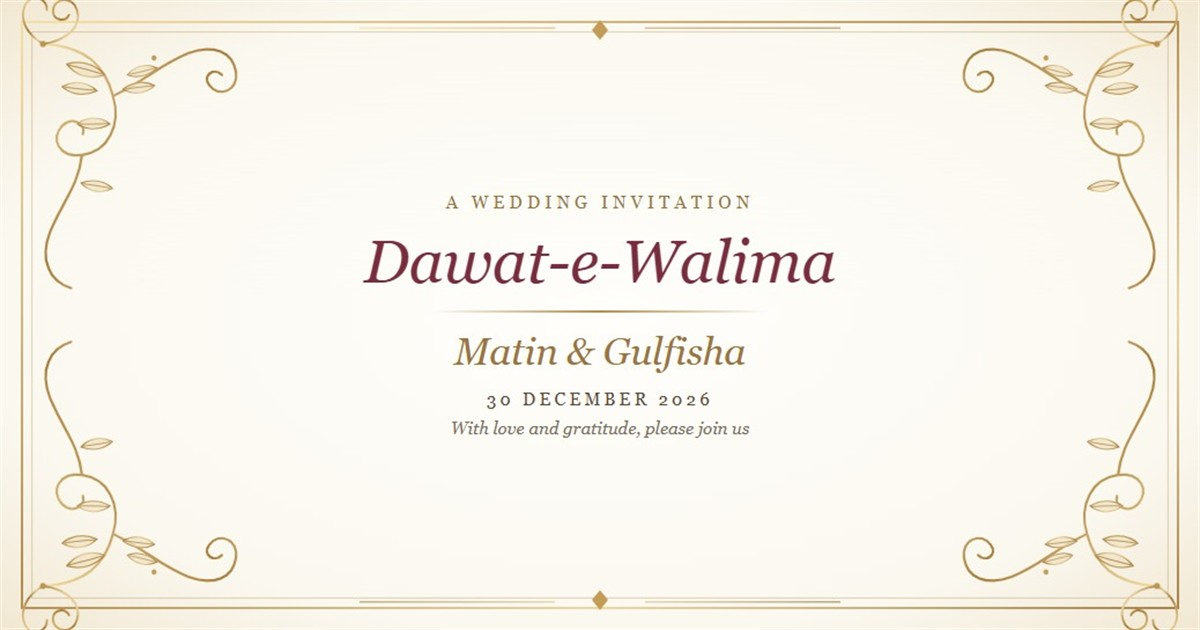
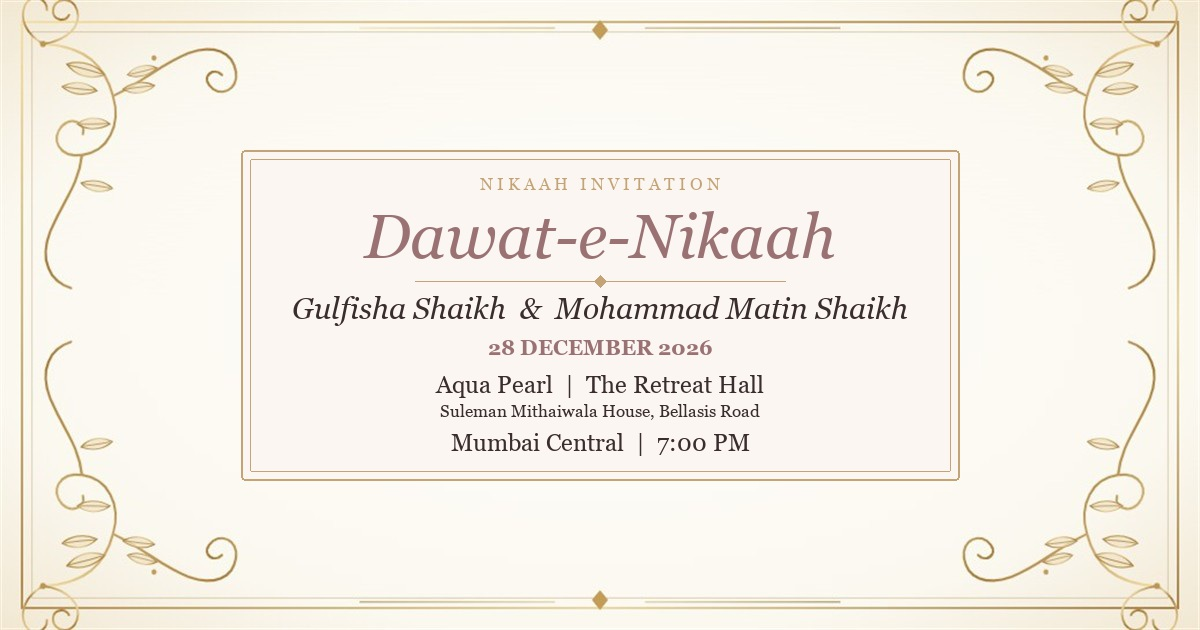
Add Nikaah social sharing preview

diff --git a/index.html b/index.html
@@ -9,14 +9,20 @@
   <title>Dawat-e-Nikaah | Matin &amp; Gulfisha</title>
   <meta
     name="description"
-    content="An invitation to celebrate the Nikaah of Matin and Gulfisha."
+    content="An invitation to celebrate the Nikaah of Gulfisha Shaikh and Mohammad Matin Shaikh on 28 December 2026."
   />
   <meta property="og:type" content="website" />
   <meta property="og:title" content="Dawat-e-Nikaah | Matin &amp; Gulfisha" />
-  <meta property="og:description" content="An invitation to celebrate the Nikaah of Matin and Gulfisha on 28 December 2026." />
+  <meta property="og:description" content="An invitation to celebrate the Nikaah of Gulfisha Shaikh and Mohammad Matin Shaikh on 28 December 2026." />
+  <meta property="og:image" content="assets/share-preview.jpg" />
+  <meta property="og:image:type" content="image/jpeg" />
+  <meta property="og:image:width" content="1200" />
+  <meta property="og:image:height" content="630" />
+  <meta property="og:image:alt" content="Dawat-e-Nikaah invitation for Gulfisha Shaikh and Mohammad Matin Shaikh on 28 December 2026 at Aqua Pearl, The Retreat Hall, Mumbai Central." />
   <meta name="twitter:card" content="summary_large_image" />
   <meta name="twitter:title" content="Dawat-e-Nikaah | Matin &amp; Gulfisha" />
-  <meta name="twitter:description" content="An invitation to celebrate the Nikaah of Matin and Gulfisha on 28 December 2026." />
+  <meta name="twitter:description" content="An invitation to celebrate the Nikaah of Gulfisha Shaikh and Mohammad Matin Shaikh on 28 December 2026." />
+  <meta name="twitter:image" content="assets/share-preview.jpg" />
 
   <link rel="preconnect" href="https://fonts.googleapis.com" />
   <link rel="preconnect" href="https://fonts.gstatic.com" crossorigin />
@@ -200,7 +206,7 @@
         <footer class="sender-details">
           <p class="sender-label">From:</p>
           <p><strong>Mr. Mohammad Arshad Ali Shaikh</strong></p>
-          <p>301 Janta Sevak Society, Hans Road,</p>
+          <p>Janta Sevak Society, Hans Road,</p>
           <p>Near Byculla Station, Byculla (W)</p>
           <p>Mob.: 9967888780</p>
         </footer>
